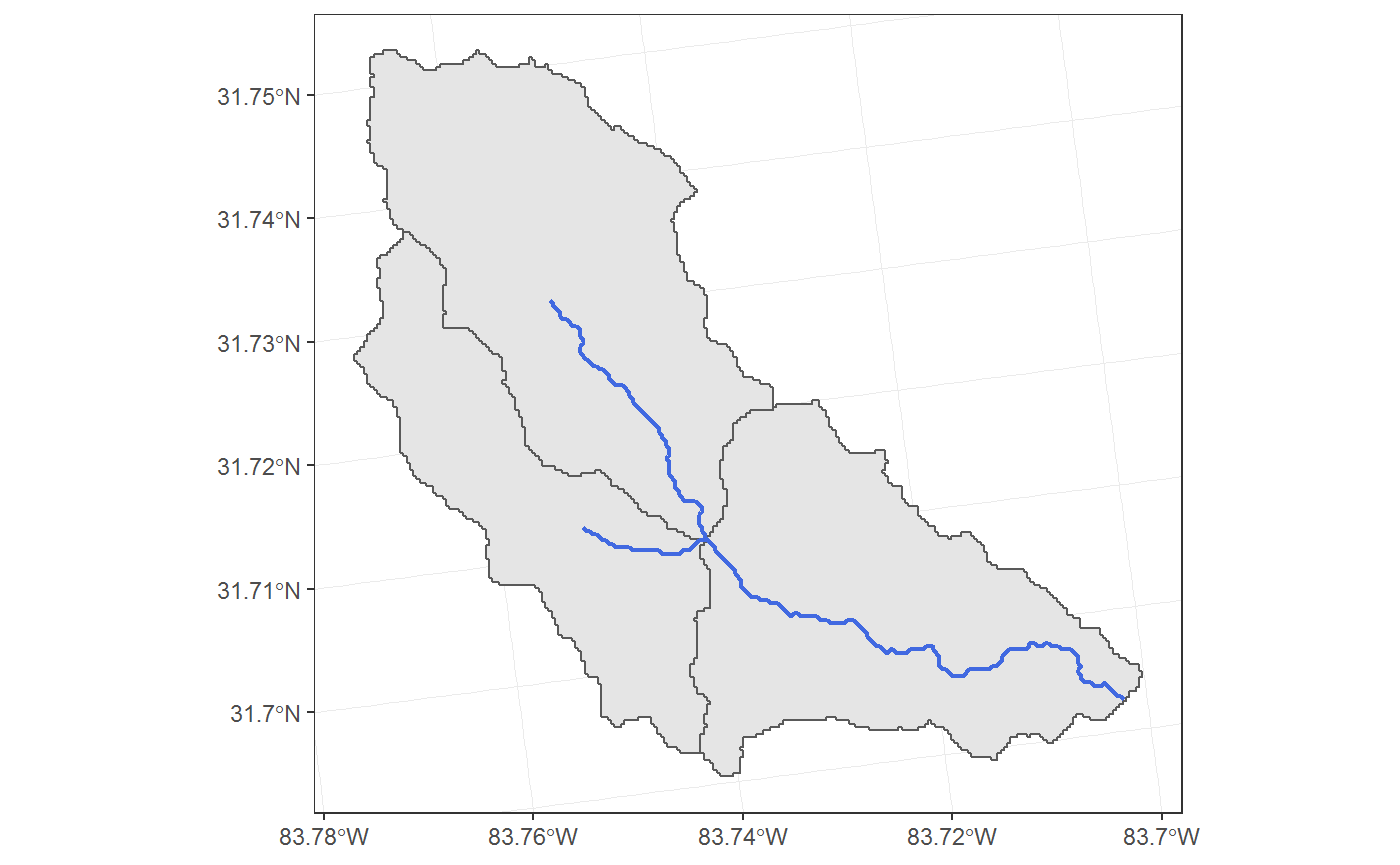
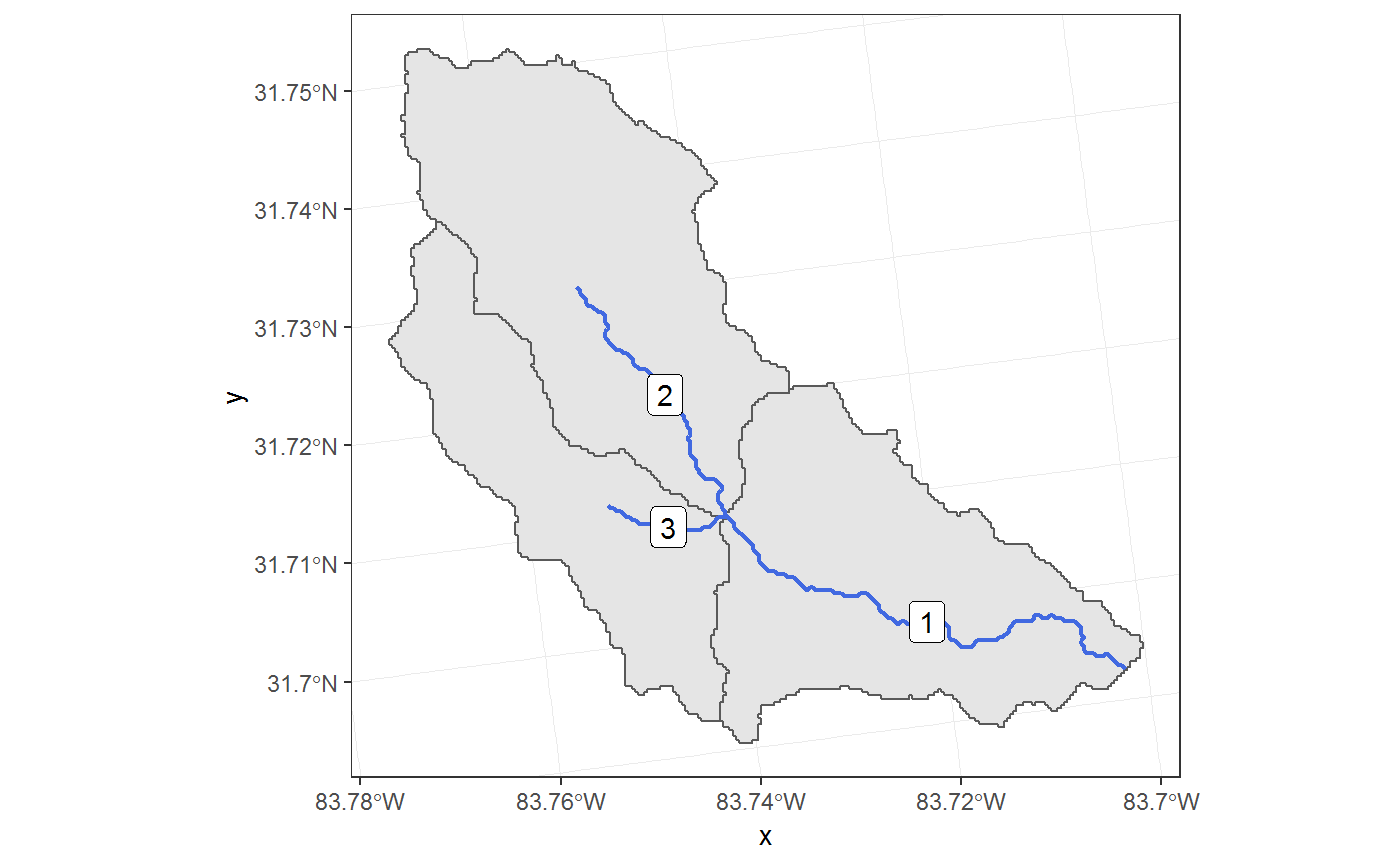
further parts of getting started

diff --git a/docs/articles/SWATplusR.html b/docs/articles/SWATplusR.html
@@ -170,6 +170,7 @@ riv &lt;-<span class="st"> </span><span class="kw">read_sf</span>(riv_path)
 <span class="kw">ggplot</span>() <span class="op">+</span><span class="st"> </span>
 <span class="st">  </span><span class="kw">geom_sf</span>(<span class="dt">data =</span> sub) <span class="op">+</span><span class="st"> </span>
 <span class="st">  </span><span class="kw">geom_sf</span>(<span class="dt">data =</span> riv, <span class="dt">col =</span> <span class="st">"royalblue"</span>, <span class="dt">lwd =</span> <span class="fl">0.75</span>) <span class="op">+</span><span class="st"> </span>
+<span class="st">  </span><span class="kw">geom_sf_label</span>(<span class="dt">data =</span> riv, <span class="kw">aes</span>(<span class="dt">label =</span> Channel)) <span class="op">+</span>
 <span class="st">  </span><span class="kw">theme_bw</span>()</code></pre></div>
 <p><img src="SWATplusR_files/figure-html/unnamed-chunk-6-1.png" width="700"></p>
 </div>
@@ -177,35 +178,114 @@ riv &lt;-<span class="st"> </span><span class="kw">read_sf</span>(riv_path)
 <div id="first-swat-model-runs" class="section level2">
 <h2 class="hasAnchor">
 <a href="#first-swat-model-runs" class="anchor"></a>First SWAT model runs</h2>
-<p>SWAT projects (e.g. one of the demo projects) can be executed from R with the functions <code><a href="../reference/run_swat2012.html">run_swat2012()</a></code> to run a SWAT2012 project or <code><a href="../reference/run_swatplus.html">run_swatplus()</a></code> to run a SWAT+ project. The minimum requirements to execute a SWAT project are to provide the <code>project_path</code> to the project folder on the hard drive and to define the simulation outputs that the simulation should return to R. The definition of the simulation output always follows a simple pattern. An output variable that should be returned must be defined using the function <code><a href="../reference/define_output.html">define_output()</a></code>. Below is a simple example to run a SWAT+ project and return the <code>variable = 'flo_out'</code> that is written into the <code>file = 'channel'</code> file for the spatial <code>unit = 1</code>. In the file channel the spatial unit relates to the subbasins. <strong>Caution</strong> in the demo SWAT+ model setup the lower subbasin is the subbasin 1.</p>
+<p>SWAT projects (e.g. one of the demo projects) can be executed from R with the functions <code><a href="../reference/run_swat2012.html">run_swat2012()</a></code> to run a SWAT2012 project or <code><a href="../reference/run_swatplus.html">run_swatplus()</a></code> to run a SWAT+ project. The minimum requirements to execute a SWAT project are to provide the <code>project_path</code> to the project folder on the hard drive and to define the simulation outputs that the simulation should return to R. The definition of the simulation output always follows a simple pattern. An output variable that should be returned must be defined using the function <code><a href="../reference/define_output.html">define_output()</a></code>. Below is a simple example to run a SWAT+ project and return the <code>variable = 'flo_out'</code> that is written into the <code>file = 'channel'</code> file for the spatial <code>unit = 1</code>. <strong>Caution</strong> in the demo SWAT+ model setup the main channel is channel number 1.</p>
 <div class="sourceCode"><pre class="sourceCode r"><code class="sourceCode r">q_out &lt;-<span class="st"> </span><span class="kw"><a href="../reference/run_swatplus.html">run_swatplus</a></span>(<span class="dt">project_path =</span> plus_path,
                       <span class="dt">output =</span> <span class="kw"><a href="../reference/define_output.html">define_output</a></span>(<span class="dt">file =</span> <span class="st">"channel"</span>,
                                              <span class="dt">variable =</span> <span class="st">"flo_out"</span>,
                                              <span class="dt">unit =</span> <span class="dv">1</span>))
 
 <span class="co">#&gt; Building 1 thread in 'Define:/your/path/swatplus_demo/.model_run': </span>
-<span class="co">#&gt;   Thread 1 of 1   Time elapsed: 0S   Time remaining: 0S    </span>
-<span class="co">#&gt;   Completed 1 thread in 0S </span>
+<span class="co">#&gt;  Thread 1 of 1   Time elapsed: 0S   Time remaining: 0S    </span>
+<span class="co">#&gt;  Completed 1 thread in 0S </span>
 <span class="co">#&gt; Performing 1 simulation on 1 core: </span>
-<span class="co">#&gt;   Simulation 1 of 1   Time elapsed: 5S   Time remaining: 0S</span>
-<span class="co">#&gt;   Completed 1 simulation in 5S</span></code></pre></div>
-<p>The syntax definition of simulations outputs applies to SWAT+ and SWAT2012. The only difference between the two models in the outdefinition is how to correctly address the output variables. The output files are differenty organized in the two SWAT versions. Below you find an example to extract the simulation outputs of discharge at the main outlet in the SWAT2012 demo setup:</p>
+<span class="co">#&gt;  Simulation 1 of 1   Time elapsed: 3S   Time remaining: 0S</span>
+<span class="co">#&gt;  Completed 1 simulation in 3S</span></code></pre></div>
+<p>The syntax definition of simulations outputs applies to SWAT+ and SWAT2012. The only difference between the two models in the outdefinition is how to correctly address the output variables. The output files are differenty organized in the two SWAT versions. Below you find an example to extract the simulation outputs of discharge at all three subbasin outlets in the SWAT2012 demo setup:</p>
 <div class="sourceCode"><pre class="sourceCode r"><code class="sourceCode r">q_out &lt;-<span class="st"> </span><span class="kw"><a href="../reference/run_swat2012.html">run_swat2012</a></span>(<span class="dt">project_path =</span> path_<span class="dv">2012</span>,
                       <span class="dt">output =</span> <span class="kw"><a href="../reference/define_output.html">define_output</a></span>(<span class="dt">file =</span> <span class="st">"RCH"</span>,
                                              <span class="dt">variable =</span> <span class="st">"FLOW_OUT"</span>,
-                                             <span class="dt">unit =</span> <span class="dv">3</span>))
+                                             <span class="dt">unit =</span> <span class="dv">1</span><span class="op">:</span><span class="dv">3</span>))
 
-<span class="co">#&gt; Building 1 thread in 'Define:/your/path/swatplus_demo/.model_run': </span>
-<span class="co">#&gt;   Thread 1 of 1   Time elapsed: 3S   Time remaining: 0S    </span>
-<span class="co">#&gt;   Completed 1 thread in 3S </span>
+<span class="co">#&gt; Building 1 thread in 'Define:/your/path/swat2012_demo/.model_run': </span>
+<span class="co">#&gt;  Thread 1 of 1   Time elapsed: 3S   Time remaining: 0S    </span>
+<span class="co">#&gt;  Completed 1 thread in 3S </span>
 <span class="co">#&gt; Performing 1 simulation on 1 core: </span>
-<span class="co">#&gt;   Simulation 1 of 1   Time elapsed: 4S   Time remaining: 0S</span>
-<span class="co">#&gt;   Completed 1 simulation in 4S</span></code></pre></div>
-<p>The discharge in SWAT2012 is written in to the file <em>“output.rch”</em>. The discharge leaving a subbasin is written in the column <em>“FLOW_OUT”</em>. <strong>Caution</strong>: The unit for the main outlet of the catchment is number 3 in the SWAT2012 setup. The only additional difference in running a basic simuation with SWAT+ and SWAT2012 is the different function call (<code><a href="../reference/run_swatplus.html">run_swatplus()</a></code> or <code><a href="../reference/run_swat2012.html">run_swat2012()</a></code>).</p>
+<span class="co">#&gt;  Simulation 1 of 1   Time elapsed: 4S   Time remaining: 0S</span>
+<span class="co">#&gt;  Completed 1 simulation in 4S</span></code></pre></div>
+<p>The discharge in SWAT2012 is written in to the file <em>“output.rch”</em>. The discharge leaving a subbasin is written in the column <em>“FLOW_OUT”</em>. The only additional difference in running a basic simuation with SWAT+ and SWAT2012 is the different function call (<code><a href="../reference/run_swatplus.html">run_swatplus()</a></code> or <code><a href="../reference/run_swat2012.html">run_swat2012()</a></code>).</p>
 <p>You might have noticed, that running SWAT also provides information on the progress. This is very convenient for long simulation runs with many model evaluations. If you implement the SWAT function into other function calls the writing to the console can be an undesired behavior. You can quiet the function call with the argument <code>quiet = TRUE</code>.</p>
 <div id="output-definition" class="section level3">
 <h3 class="hasAnchor">
 <a href="#output-definition" class="anchor"></a>Output definition</h3>
+<p>The previous examples illustrated how to extract one `<code>variable</code> (but maybe for several <code>units</code>) from the simulation outputs. To extract several variables you can simply combine them in a <code><a href="https://www.rdocumentation.org/packages/base/topics/list">list()</a></code>. In the example below we extract several water balance components of the SWAT+ demo simulations. Aggregated variables for a SWAT+ simulation are written to the <em>‘basin_wb’</em> file and there is only one spatial unit (the entire basin) written to that file. Therefore, the <code>unit</code> must be 1. Values different from 1 will not return any simulation results:</p>
+<div class="sourceCode"><pre class="sourceCode r"><code class="sourceCode r">wb_out &lt;-<span class="st"> </span><span class="kw"><a href="../reference/run_swatplus.html">run_swatplus</a></span>(<span class="dt">project_path =</span> path_plus,
+           <span class="dt">output =</span> <span class="kw"><a href="https://www.rdocumentation.org/packages/base/topics/list">list</a></span>(<span class="dt">precip =</span> <span class="kw"><a href="../reference/define_output.html">define_output</a></span>(<span class="dt">file =</span> <span class="st">"basin_wb"</span>,
+                                                <span class="dt">variable =</span> <span class="st">"precip"</span>,
+                                                <span class="dt">unit =</span> <span class="dv">1</span>),
+                         <span class="dt">q_sur  =</span> <span class="kw"><a href="../reference/define_output.html">define_output</a></span>(<span class="dt">file =</span> <span class="st">"basin_wb"</span>,
+                                                <span class="dt">variable =</span> <span class="st">"surq_gen"</span>,
+                                                <span class="dt">unit =</span> <span class="dv">1</span>),
+                         <span class="dt">q_lat  =</span> <span class="kw"><a href="../reference/define_output.html">define_output</a></span>(<span class="dt">file =</span> <span class="st">"basin_wb"</span>,
+                                                <span class="dt">variable =</span> <span class="st">"latq"</span>,
+                                                <span class="dt">unit =</span> <span class="dv">1</span>),
+                         <span class="dt">eta    =</span> <span class="kw"><a href="../reference/define_output.html">define_output</a></span>(<span class="dt">file =</span> <span class="st">"basin_wb"</span>,
+                                                <span class="dt">variable =</span> <span class="st">"et"</span>,
+                                                <span class="dt">unit =</span> <span class="dv">1</span>)))
+
+<span class="co">#&gt; Building 1 thread in 'Define:/your/path/swatplus_demo/.model_run': </span>
+<span class="co">#&gt;  Thread 1 of 1   Time elapsed: 1S   Time remaining: 0S    </span>
+<span class="co">#&gt;  Completed 1 thread in 1S </span>
+<span class="co">#&gt; Performing 1 simulation on 1 core: </span>
+<span class="co">#&gt;  Simulation 1 of 1   Time elapsed: 2S   Time remaining: 0S</span>
+<span class="co">#&gt;  Completed 1 simulation in 2S</span></code></pre></div>
+<p>The output definition in a list has the additional advantage to optionally assign individual names to the variables (e.g. <code><a href="https://www.rdocumentation.org/packages/base/topics/list">list(name_a = define_output(...))</a></code>). The variables are returned in the output with that name in R then.</p>
+</div>
+<div id="exploring-a-simulation" class="section level3">
+<h3 class="hasAnchor">
+<a href="#exploring-a-simulation" class="anchor"></a>Exploring a simulation</h3>
+<p>The goal of <code>SWATplusR</code> is to return the SWAT simulations in a <em>tidy</em> format. The simulation results look slightly different if only one simulation was performed, parameters were modified in a run, or multiple parameter sets were used to perform a large number of model evaluations. In general the outputs follow a general structure.</p>
+<p>If only one simulation was performed, where no model parameters were modified, <code>run_swat*()</code> returns a <code>tibble</code> with a <code>date</code> column and additional columns with the simulated values of the extracted variables on these dates. For the simulated water balance components the returned table looks as follows:</p>
+<div class="sourceCode"><pre class="sourceCode r"><code class="sourceCode r">wb_out
+<span class="co">#&gt; # A tibble: 3,653 x 5</span>
+<span class="co">#&gt;    date       precip q_sur q_lat   eta</span>
+<span class="co">#&gt;    &lt;date&gt;      &lt;dbl&gt; &lt;dbl&gt; &lt;dbl&gt; &lt;dbl&gt;</span>
+<span class="co">#&gt;  1 2003-01-01  4.28  0.144 2.28  0.425</span>
+<span class="co">#&gt;  2 2003-01-02  0.387 0.021 1.68  0.951</span>
+<span class="co">#&gt;  3 2003-01-03  0     0.005 1.34  0.081</span>
+<span class="co">#&gt;  4 2003-01-04  0     0.001 1.15  0.742</span>
+<span class="co">#&gt;  5 2003-01-05  0     0     1.03  0.7  </span>
+<span class="co">#&gt;  6 2003-01-06  0     0     0.962 0.676</span>
+<span class="co">#&gt;  7 2003-01-07  0     0     0.912 0.574</span>
+<span class="co">#&gt;  8 2003-01-08  0     0     0.874 0.628</span>
+<span class="co">#&gt;  9 2003-01-09  0     0     0.844 0.716</span>
+<span class="co">#&gt; 10 2003-01-10  0     0     0.817 0.423</span>
+<span class="co">#&gt; # ... with 3,643 more rows</span></code></pre></div>
+<p>The <em>tidy</em> writing of the simulation results allows an easy processing of the data in the analysis workflow in R. Here is a quick example how to ‘wrangle’ the data with <code>dplyr</code> <span class="citation">(Wickham et al., <a href="#ref-Wickham2019">2019</a>)</span>, <code>lubridate</code> <span class="citation">(Grolemund and Wickham, <a href="#ref-Grolemund2011">2011</a>)</span> and <code>tidyr</code> <span class="citation">(Wickham and Henry, <a href="#ref-Wickham2018a">2018</a>)</span> and then plotting the water balance components with <code>ggplot2</code>:</p>
+<div class="sourceCode"><pre class="sourceCode r"><code class="sourceCode r"><span class="kw"><a href="https://www.rdocumentation.org/packages/base/topics/library">library</a></span>(tidyr)
+<span class="co">#&gt; Warning: package 'tidyr' was built under R version 3.5.3</span>
+<span class="kw"><a href="https://www.rdocumentation.org/packages/base/topics/library">library</a></span>(dplyr)
+<span class="kw"><a href="https://www.rdocumentation.org/packages/base/topics/library">library</a></span>(lubridate)
+<span class="kw"><a href="https://www.rdocumentation.org/packages/base/topics/library">library</a></span>(ggplot2)
+
+
+wb_plot &lt;-<span class="st"> </span>wb_out <span class="op">%&gt;%</span><span class="st"> </span>
+<span class="st">  </span><span class="kw">mutate</span>(<span class="dt">year   =</span> <span class="kw">year</span>(date),
+         <span class="dt">month  =</span> <span class="kw">month</span>(date)) <span class="op">%&gt;%</span><span class="st"> </span>
+<span class="st">  </span><span class="kw">select</span>(<span class="op">-</span><span class="st"> </span>date) <span class="op">%&gt;%</span><span class="st"> </span>
+<span class="st">  </span><span class="kw">group_by</span>(year, month) <span class="op">%&gt;%</span><span class="st"> </span>
+<span class="st">  </span><span class="kw">summarise_all</span>(<span class="kw">funs</span>(<span class="kw"><a href="https://www.rdocumentation.org/packages/base/topics/sum">sum</a></span>(.))) <span class="op">%&gt;%</span><span class="st"> </span>
+<span class="st">  </span><span class="kw">ungroup</span>() <span class="op">%&gt;%</span><span class="st"> </span>
+<span class="st">  </span><span class="kw">select</span>(<span class="op">-</span>year) <span class="op">%&gt;%</span><span class="st"> </span>
+<span class="st">  </span><span class="kw">group_by</span>(month) <span class="op">%&gt;%</span><span class="st"> </span>
+<span class="st">  </span><span class="kw">summarise_all</span>(<span class="kw">funs</span>(<span class="kw"><a href="https://www.rdocumentation.org/packages/base/topics/mean">mean</a></span>(.))) <span class="op">%&gt;%</span><span class="st"> </span>
+<span class="st">  </span><span class="kw">gather</span>(., <span class="dt">key =</span> <span class="st">"variable"</span>, <span class="dt">value =</span> <span class="st">"value"</span>, <span class="op">-</span><span class="st"> </span>month)
+<span class="co">#&gt; Warning: funs() is soft deprecated as of dplyr 0.8.0</span>
+<span class="co">#&gt; please use list() instead</span>
+<span class="co">#&gt; </span>
+<span class="co">#&gt; # Before:</span>
+<span class="co">#&gt; funs(name = f(.)</span>
+<span class="co">#&gt; </span>
+<span class="co">#&gt; # After: </span>
+<span class="co">#&gt; list(name = ~f(.))</span>
+<span class="co">#&gt; This warning is displayed once per session.</span>
+  
+<span class="kw">ggplot</span>() <span class="op">+</span>
+<span class="st">  </span><span class="co"># geom_col(data = filter(wb_plot, variable == "precip"),</span>
+<span class="st">  </span><span class="co">#          aes(x = month, y = value, fill = variable)) + </span>
+<span class="st">  </span><span class="kw">geom_col</span>(<span class="dt">data =</span> <span class="kw"><a href="https://www.rdocumentation.org/packages/stats/topics/filter">filter</a></span>(wb_plot, variable <span class="op">!=</span><span class="st"> "precip"</span>), 
+           <span class="kw">aes</span>(<span class="dt">x =</span> month, <span class="dt">y =</span> value, <span class="dt">fill =</span> variable), 
+           <span class="dt">alpha =</span> <span class="fl">0.9</span>, <span class="dt">position =</span> <span class="st">"stack"</span>)</code></pre></div>
+<p><img src="SWATplusR_files/figure-html/unnamed-chunk-14-1.png" width="700"></p>
 </div>
 </div>
 <div id="references" class="section level2 unnumbered">
@@ -215,6 +295,9 @@ riv &lt;-<span class="st"> </span><span class="kw">read_sf</span>(riv_path)
 <div id="ref-Bosch2007">
 <p>Bosch, D. D., Sheridan, J. M., Lowrance, R. R., Hubbard, R. K., Strickland, T. C., Feyereisen, G. W. and Sullivan, D. G.: Little river experimental watershed database, Water Resources Research, 43(9), doi:<a href="https://doi.org/10.1029/2006wr005844">10.1029/2006wr005844</a>, 2007.</p>
 </div>
+<div id="ref-Grolemund2011">
+<p>Grolemund, G. and Wickham, H.: Dates and times made easy withlubridate, Journal of Statistical Software, 40(3), doi:<a href="https://doi.org/10.18637/jss.v040.i03">10.18637/jss.v040.i03</a>, 2011.</p>
+</div>
 <div id="ref-Pebesma2018a">
 <p>Pebesma, E.: Simple Features for R: Standardized Support for Spatial Vector Data, The R Journal, 10(1), 439–446, doi:<a href="https://doi.org/10.32614/RJ-2018-009">10.32614/RJ-2018-009</a>, 2018.</p>
 </div>
@@ -223,6 +306,12 @@ riv &lt;-<span class="st"> </span><span class="kw">read_sf</span>(riv_path)
 </div>
 <div id="ref-Wickham2016">
 <p>Wickham, H.: ggplot2: Elegant Graphics for Data Analysis, Springer-Verlag New York. [online] Available from: <a href="http://ggplot2.org" class="uri">http://ggplot2.org</a>, 2016.</p>
+</div>
+<div id="ref-Wickham2018a">
+<p>Wickham, H. and Henry, L.: Tidyr: Easily tidy data with ’spread()’ and ’gather()’ functions. [online] Available from: <a href="https://CRAN.R-project.org/package=tidyr" class="uri">https://CRAN.R-project.org/package=tidyr</a> (Accessed 3 May 2019), 2018.</p>
+</div>
+<div id="ref-Wickham2019">
+<p>Wickham, H., François, R., Henry, L. and Müller, K.: Dplyr: A grammar of data manipulation. [online] Available from: <a href="https://CRAN.R-project.org/package=dplyr" class="uri">https://CRAN.R-project.org/package=dplyr</a> (Accessed 5 March 2019), 2019.</p>
 </div>
 </div>
 </div>

diff --git a/docs/index.html b/docs/index.html
@@ -135,9 +135,9 @@ install.packages("SWATplusR")
 </li>
 <li>Performing first SWAT model runs from R <a href="https://chrisschuerz.github.io/SWATplusR/articles/SWATplusR.html#first-swat-model-runs">&gt;&gt;&gt;</a>
 <ul>
-<li>Output definition <a href="https://chrisschuerz.github.io/SWATplusR/articles/SWATplusR.html#spatial-data">&gt;&gt;&gt;</a>
+<li>Output definition <a href="https://chrisschuerz.github.io/SWATplusR/articles/SWATplusR.html#output-definition">&gt;&gt;&gt;</a>
 </li>
-<li>Exploring simulation results <a href="https://chrisschuerz.github.io/SWATplusR/articles/SWATplusR.html#spatial-data">&gt;&gt;&gt;</a>
+<li>Exploring the first simulation results <a href="https://chrisschuerz.github.io/SWATplusR/articles/SWATplusR.html#exploring-a-simulation">&gt;&gt;&gt;</a>
 </li>
 </ul>
 </li>

diff --git a/README.md b/README.md
@@ -42,7 +42,7 @@ You can explore the basic functionality of `SWATplusR` in the [Get started](http
     -   Spatial catchment data [&gt;&gt;&gt;](https://chrisschuerz.github.io/SWATplusR/articles/SWATplusR.html#spatial-data)
 -   Performing first SWAT model runs from R [&gt;&gt;&gt;](https://chrisschuerz.github.io/SWATplusR/articles/SWATplusR.html#first-swat-model-runs)
     -   Output definition [&gt;&gt;&gt;](https://chrisschuerz.github.io/SWATplusR/articles/SWATplusR.html#output-definition)
-    -   Exploring simulation results [&gt;&gt;&gt;](https://chrisschuerz.github.io/SWATplusR/articles/SWATplusR.html#spatial-data)
+    -   Exploring the first simulation results [&gt;&gt;&gt;](https://chrisschuerz.github.io/SWATplusR/articles/SWATplusR.html#exploring-a-simulation)
 -   Defining parameter modifications for a SWAT run &gt;&gt;&gt;
 
 -   Running SWAT with a single parameter set &gt;&gt;&gt;
